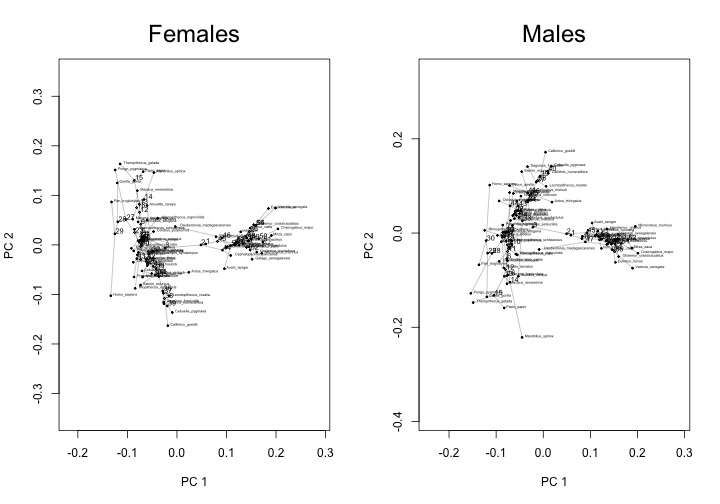
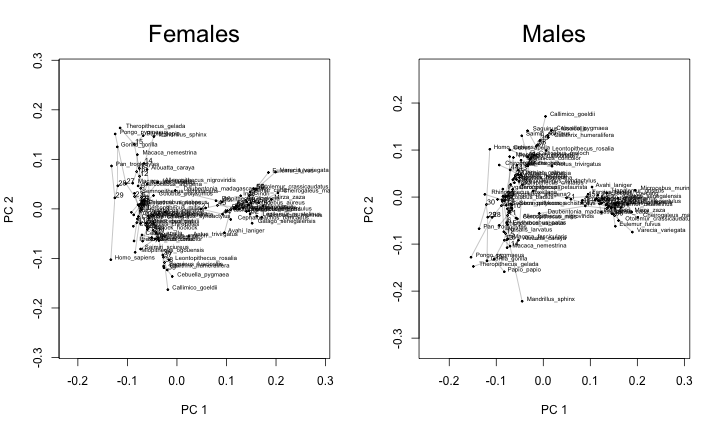
enlarge figs

diff --git a/_posts/2017-08-05-flipping-PC-axes-in-phylomorphospace-plots.md b/_posts/2017-08-05-flipping-PC-axes-in-phylomorphospace-plots.md
@@ -28,15 +28,15 @@ tree.f <- readRDS(url("https://rgriff23.github.io/assets/Rds/diss_tree_f.Rds"))
 tree.m <- readRDS(url("https://rgriff23.github.io/assets/Rds/diss_tree_m.Rds"))
 ```
 
-Now, generate side-by-side phylomorphospace plots. The plot parameters here serve to make the text a bit more readable, at least for peripheral species:
+Now, generate side-by-side phylomorphospace plots. The plot parameters here serve to make the text a bit more readable, at least for peripheral species?:
 
 
 ```r
 # side-by-side phylomorphospace plots
 layout(matrix(1:2, 1, 2))
-plotGMPhyloMorphoSpace(tree.f, gpa.f$coords, plot.param=list(t.cex=0.3, n.cex=0.3, lwd=0.3, txt.cex=0.3))
+plotGMPhyloMorphoSpace(tree.f, gpa.f$coords, plot.param=list(t.cex=0.3, n.cex=0.3, lwd=0.3, txt.cex=0.5))
 mtext("Females", line=1, cex=2)
-plotGMPhyloMorphoSpace(tree.m, gpa.m$coords, plot.param=list(t.cex=0.3, n.cex=0.3, lwd=0.3, txt.cex=0.3))
+plotGMPhyloMorphoSpace(tree.m, gpa.m$coords, plot.param=list(t.cex=0.3, n.cex=0.3, lwd=0.3, txt.cex=0.5))
 mtext("Males", line=1, cex=2)
 ```
 
@@ -55,9 +55,9 @@ source(url("https://raw.githubusercontent.com/rgriff23/Dissertation/master/Chapt
 
 # side-by-side phylomorphospace plots with y-axis in male plot flipped
 layout(matrix(1:2, 1, 2))
-plotGMPhyloMorphoSpace_axisflip(tree.f, gpa.f$coords, plot.param=list(t.cex=0.3, n.cex=0.3, lwd=0.3, txt.cex=0.3))
+plotGMPhyloMorphoSpace_axisflip(tree.f, gpa.f$coords, plot.param=list(t.cex=0.3, n.cex=0.3, lwd=0.3, txt.cex=0.5))
 mtext("Females", line=1, cex=2)
-plotGMPhyloMorphoSpace_axisflip(tree.m, gpa.m$coords, yaxis=-2, plot.param=list(t.cex=0.3, n.cex=0.3, lwd=0.3, txt.cex=0.3))
+plotGMPhyloMorphoSpace_axisflip(tree.m, gpa.m$coords, yaxis=-2, plot.param=list(t.cex=0.3, n.cex=0.3, lwd=0.3, txt.cex=0.5))
 mtext("Males", line=1, cex=2)
 ```
 
